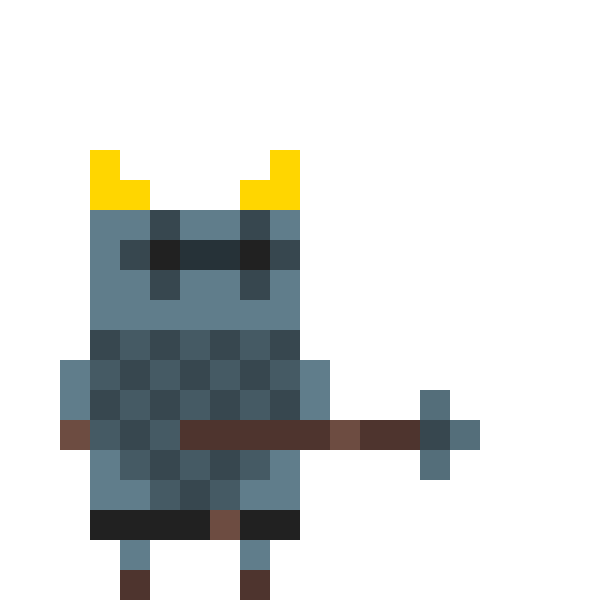
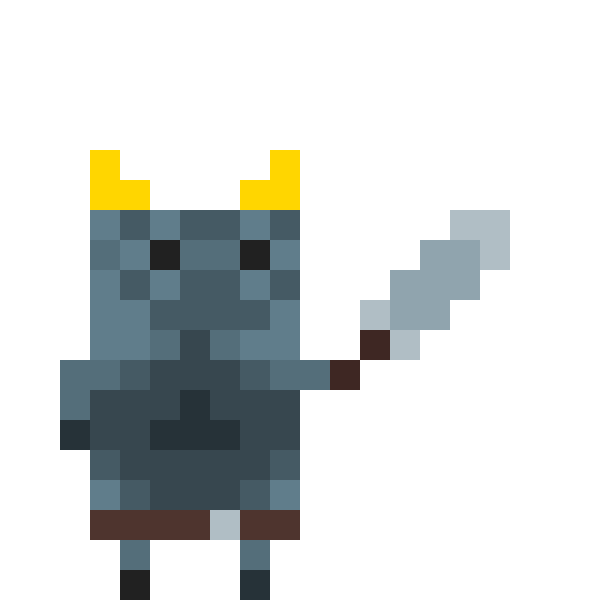
Добавлены изображения героя с мечом

diff --git a/main.py b/main.py
@@ -237,7 +237,7 @@ class Board:
     def __init__(self):
         self.current_level = self.load_level('map.txt')
         self.players = {'sword': sword, 'axe': axe, 'kope': kope}
-        self.current_player = self.players['axe']
+        self.current_player = self.players['sword']
 
     def load_db_info(self):
         for x in cur.execute("SELECT name FROM Knights").fetchall():
